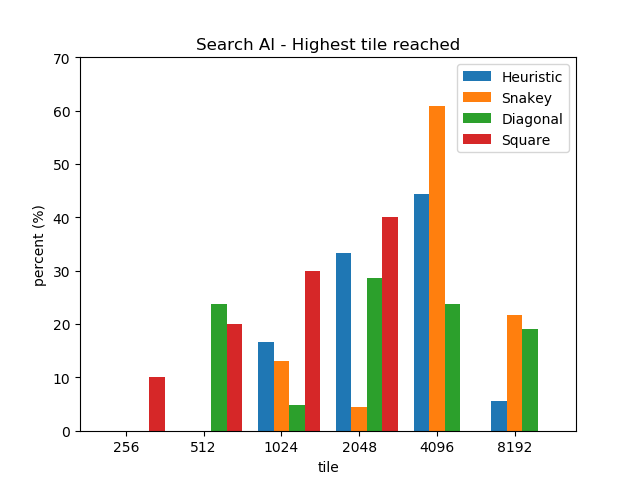
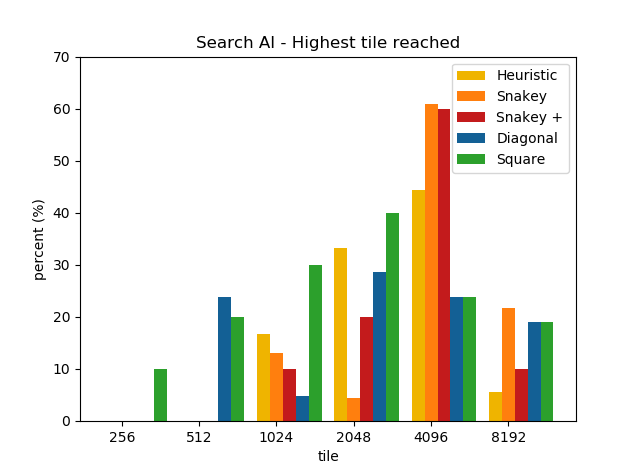
Added heuristic statistics and added texts for the not mentioned algorithms

diff --git a/2048-AI.html b/2048-AI.html
@@ -100,9 +100,11 @@
             </p>
             <h4>Heuristic</h4>
             <p>Our first approach consisted of creating an algorithm which moved alternately down and right and as soon as he was stuck trying to find if the
-              bottom row or the lefthand row was full and move in that direction. The idea behind that was to keep the highest tile in the bottom right corner.
-              After a short time we realised that this strategy will not bear fruits as it's average score was around 3'500, so we discarded our algorithm and started over.<br>
-              This time we made an algorithm that will make two steps in the future in every possible direction (ignoring the random tile spawn) and assessed the board at that stage. We valued the board
+              bottom row or the lefthand row was full and move in that direction. The idea behind this "Pretty Good" algorithm was to keep the highest tile in the bottom right corner.
+              After a short time we realised that this strategy will not bear fruits as it's average score was around 4'000 points, so we discarded our algorithm and started over.<br>
+              This time we made the "Check Score" algorithm which did assess, which turn would lead to the greatest score, ignoring the random tile spawn. The scoring itself was a combination of different experiences that we obtained from the previous version.
+              On one hand it gave penalties to moves that would lead to badly shaped boards and on the otherhand it gave bonus for same neighbours.<br>
+              Built on the Check Score algorithm we build the "Hierarchical" algorithm which also did look two steps in the future in every possible direction (still ignoring the random tile spawn) and assessed the board at that stage. We valued the board
               by a score which was strongly depending on the position of the tiles. The better a tile was positioned, the higher the factor it's value was multiplied with.
               A good position was the closeness to the bottom right corner, and the tile in the corner itself got an additional bonus,
               to force the algorithm to keep the highest value there. The board score distribution for this version looked like this:</p>
@@ -111,9 +113,26 @@
                 <figcaption>Bonus Distribution Heuristic</figcaption>
               </figure>
               <p>These improvements got us way closer to our aim, overall the algorithm scored an average of 7'000 points.<br>
-              We further improved it by giving a neighbourbonus for tiles of the same value, and weighted empty tiles too, so the algorithm had more interest in merging tiles.
-              This small tweaks finally pushed our algorithm slightly over the 10'000 points threshold.
+              We further improved it by giving a neighbourbonus which we had in the Check Score algorithm, for tiles of the same value and weighted empty tiles too, so the algorithm had more interest in merging tiles.
+              This small tweaks finally pushed our algorithm slightly over the 10'000 points threshold.<br>
+              The following graphs show how the different heuristic algorithms did perform over 200 games and how they perform against the given a random agent.
             </p>
+            <figure>
+              <div class="single-slide">
+                <div class="container-fluid">
+                  <div class="row">
+                    <div class="col-md-6">
+                      <img class="article-statistic" src="images/blogs/ai/scores_heuristicai.png" alt="scores heuristic ai">
+                      <figcaption>Distribution of the heuristics score over 200 games</figcaption>
+                    </div>
+                    <div class="col-md-6">
+                      <img class="article-statistic" src="images/blogs/ai/highest_tiles_reached_heuristicai.png" alt="highest reached tiles heuristic ai">
+                      <figcaption>Distribution of the highest reached tiles of the heuristics over 200 games</figcaption>
+                    </div>
+                  </div>
+                </div>
+              </div>
+            </figure>
             <h4>Expectimax</h4>
             <p>As 2048 contains a random factor in regard of the randomly spawned 2 or 4 value tile, Expectimax is the most obvious approach to implement an AI.
               We used the heuristics score function to value the board, as well as an adaptive depth going from depth one to depth three depending on the number of empty tiles.
@@ -137,7 +156,8 @@
               Furthermore this variant was alot faster than previous iterations as it only needs to make one
               matrix multiplication instead of two for loops and multiple if statements.<br>
               We tested out multiple other distributions, which we thought could work well with the same system as the Snakey.
-              One was a diagonal decreasing distribution of the bonuses, and one was squares, but in the end Snakey was the most succesful variation we created.
+              One was a diagonal decreasing distribution of the bonuses, another one was squares, and the last one was Snakey+ which also had a neighbourbonus implemented.
+              At the end Snakey still was the most succesful variation we created and if we wanted to improve it it just got worse.
               The score distribution for the different versions looked as follows:
             </p>
             <figure>
@@ -205,8 +225,8 @@
             </table>
 
             <p>The following two graphs show how the score and the tiles have been distributed over 20 games. As one can see, is the Snakey scoring function
-              mostly in the range of 60'000 to 80'000 points, which means that he often fails just before merging to the 8192. Whereas the Diagonal scoring function seems to have
-              less problems merging to the 8192 tile when he comes as far as the 4096 tile. This leads to the conclusion that in the Diagonal function the distribution of tiles
+              mostly in the range between 60'000 to 80'000 points, which means that he often fails just before merging to the 8192. Whereas the Diagonal scoring function seems to have
+              less problems merging to the 8192 tile when it even comes as far as the 4096 tile. This leads to the conclusion that in the Diagonal function the distribution of tiles
               seems to be better when the board is loaded with high tiles.
               A next step could be to combine the Snakey and Diagonal function, that the Snakey handles the part until the 4096 tile and then the Diagonal function takes over to reach an even higher score.
             <figure>

diff --git a/js/active.js b/js/active.js
@@ -109,7 +109,7 @@
     if ($.fn.scrollUp) {
         browserWindow.scrollUp({
             scrollSpeed: 1500,
-            scrollText: '<p class="fa fa-angle-up" style="color:white; font-style:bold; font-size:30px;">⮝</p>'
+            scrollText: '<p class="fa fa-angle-up" style="color:white; font-style:bold; font-size:30px; text-align: center;">⮝</p>'
         });
     }
 
